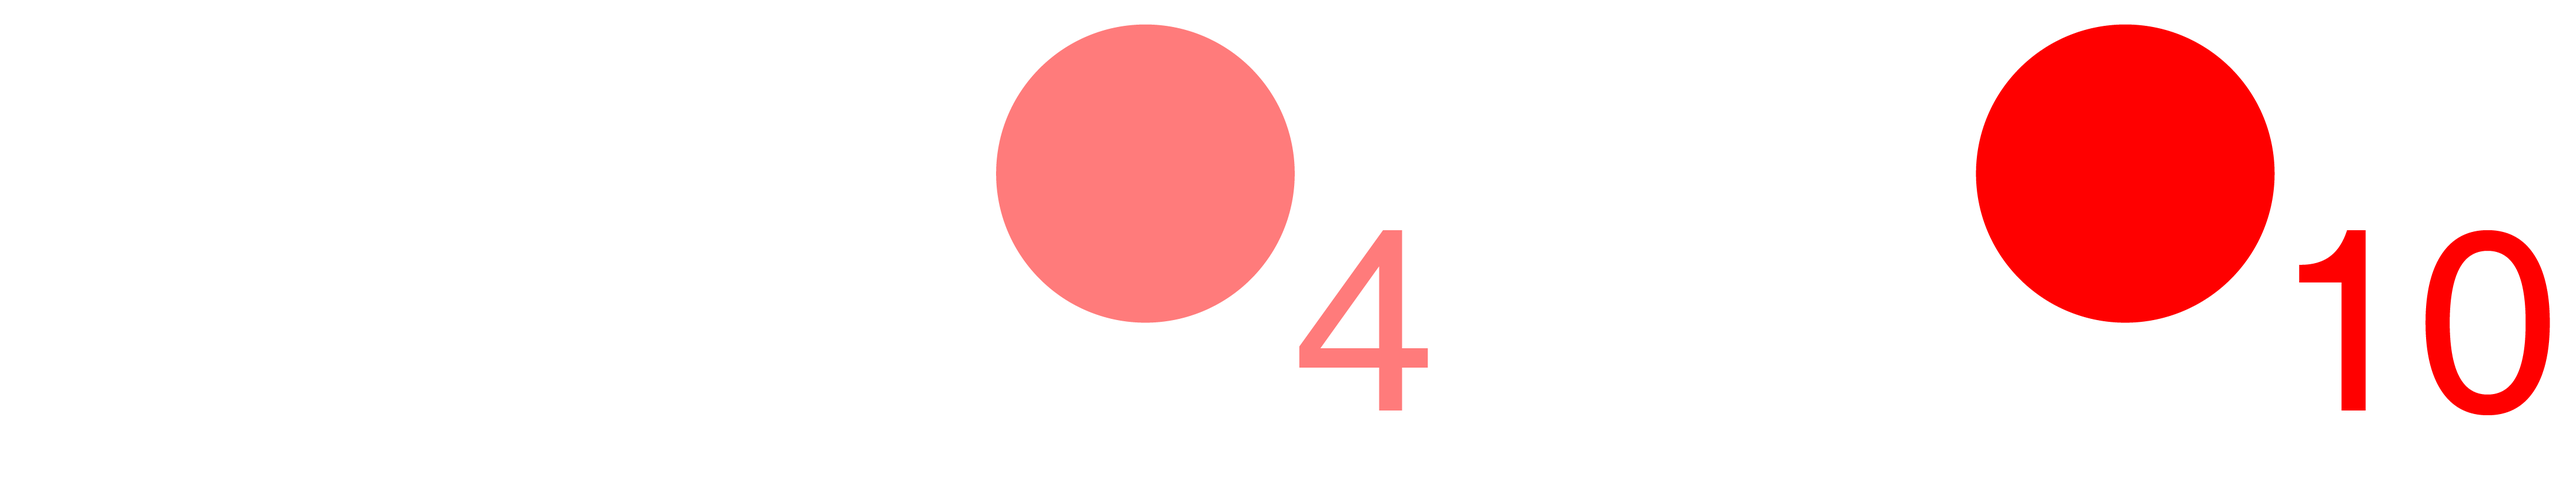
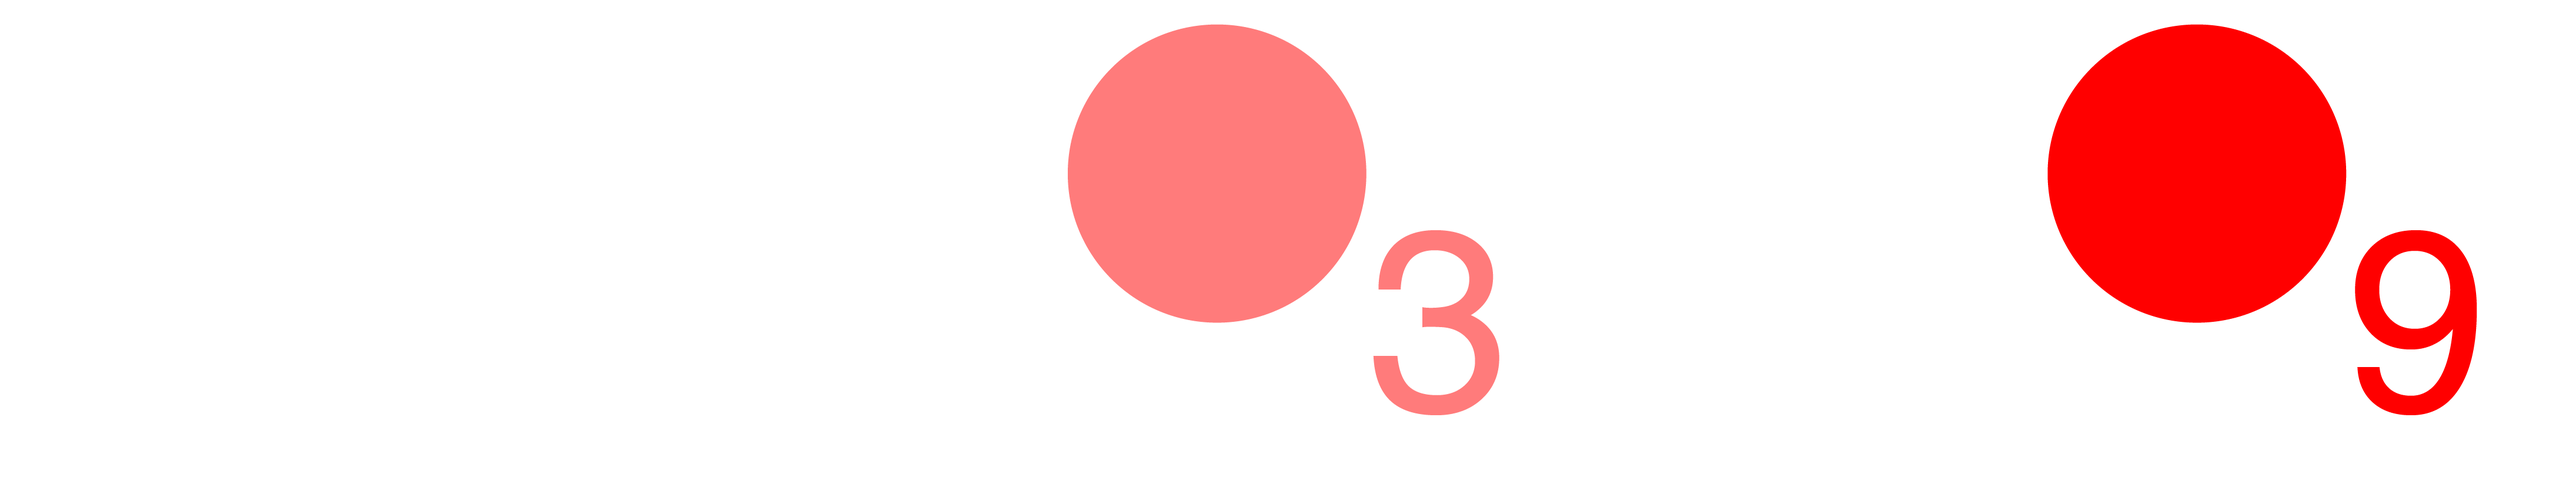
money updates

Changed region(s): [[0.745, 0.0307, 0.9934, 0.8278], [0.3725, 0.0307, 0.5898, 0.8278]]

diff --git a/src/components/MTP/MainGuideLines.jsx b/src/components/MTP/MainGuideLines.jsx
@@ -12,7 +12,8 @@ import task from "../../images/task.png";
 import click_success from "../../images/success_click.png";
 import click_fail from "../../images/fail_click.png";
 import reward_setting from "../../images/reward_setting.png";
-import { FONT_SIZE } from "../../utils";
+import { FONT_SIZE, getTimePercent, getTimerColor } from "../../utils";
+import { BALL_POINTS } from "./Balls";
 
 const MainGuideLines = () => {
   const monitorBound = useRecoilValue(mointorBoundState);
@@ -98,7 +99,7 @@ const MainGuideLines = () => {
       description: (
         <StepContent>
           <b style={{ color: "black" }}>
-            White gives 0 cents of bonus/penalty.
+            White gives {BALL_POINTS[0]} cents of bonus/penalty.
           </b>
         </StepContent>
       ),
@@ -109,7 +110,7 @@ const MainGuideLines = () => {
       description: (
         <StepContent>
           <b style={{ color: "#ff7b7b" }}>
-            Light red gives 4 cents of bonus/penalty.
+            Light red gives {BALL_POINTS[1]} cents of bonus/penalty.
           </b>
         </StepContent>
       ),
@@ -120,7 +121,7 @@ const MainGuideLines = () => {
       description: (
         <StepContent>
           <b style={{ color: "#ff0000 " }}>
-            Red gives 10 cents of bonus/penalty.
+            Red gives {BALL_POINTS[2]} cents of bonus/penalty.
           </b>
         </StepContent>
       ),
@@ -182,8 +183,7 @@ const MainGuideLines = () => {
       title: <StepTitle>Target Bonus Information</StepTitle>,
       description: (
         <StepContent>
-          Reminder: White gives 0 cents, Light red gives 4 cents, and Red gives
-          10 cents.
+          {`Reminder: White gives ${BALL_POINTS[0]} cents, Light red gives ${BALL_POINTS[1]} cents, and Red gives ${BALL_POINTS[2]} cents.`}
         </StepContent>
       ),
       target: () => refRewardSettings.current,
@@ -259,8 +259,19 @@ const MainGuideLines = () => {
             fontSize: FONT_SIZE,
           }}
         >
-          <div ref={ref1}>Total Bonus: 10 cents</div>
-          <div ref={refTime}>Time: 14:59</div>
+          <div ref={ref1}>Total Bonus: {BALL_POINTS[2]} cents</div>
+          <div ref={refTime}>
+            Time: 14:59
+            <div style={{ width: "100%", height: 20, background: "grey" }}>
+              <div
+                style={{
+                  width: `${getTimePercent(50, 100)}%`,
+                  height: 20,
+                  background: getTimerColor(50, 100),
+                }}
+              ></div>
+            </div>
+          </div>
           <div ref={refRewardSettings}>
             <img src={reward_setting} width={300} />
           </div>
@@ -371,7 +382,9 @@ const MainGuideLines = () => {
           ref={refSuccess2}
         >
           <div>
-            <MainTaskFont style={{ color: "red" }}>+10 Cents</MainTaskFont>
+            <MainTaskFont style={{ color: "red" }}>
+              +{BALL_POINTS[2]} Cents
+            </MainTaskFont>
           </div>
           <img alt="money" src={click_success} />
         </div>
@@ -390,7 +403,9 @@ const MainGuideLines = () => {
           ref={refFail}
         >
           <div>
-            <MainTaskFont style={{ color: "red" }}>-10 Cents</MainTaskFont>
+            <MainTaskFont style={{ color: "red" }}>
+              -{BALL_POINTS[2]} Cents
+            </MainTaskFont>
           </div>
           <img alt="money" src={click_fail} />
         </div>

diff --git a/src/utils.js b/src/utils.js
@@ -1,4 +1,4 @@
-import { BALL_POINTS, BALL_POINTS_MINIMUM } from "./components/MTP/Balls";
+import { BALL_POINTS } from "./components/MTP/Balls";
 import { SHOW_REWARD_TIME } from "./components/MTP/MTPCanvas";
 
 export const GREEN_BALL = "#00ff00";
@@ -363,7 +363,6 @@ export const drawClickResultText = (
   const successText = success ? "✅ Success!" : "❌ Failed...";
   const successColor = success ? "white" : "white";
   reward = Number(reward);
-  let minBallPoint = 0;
 
   if (Math.abs(reward) === BALL_POINTS[0]) {
     ctx.font = `${FONT_SIZE - 10}px san-serif bold`;
@@ -371,14 +370,6 @@ export const drawClickResultText = (
     ctx.font = `${FONT_SIZE}px san-serif bold`;
   } else {
     ctx.font = `${FONT_SIZE + 10}px san-serif bold`;
-  }
-
-  if (Math.abs(reward) < 1) {
-    minBallPoint = BALL_POINTS_MINIMUM[0];
-  } else if (Math.abs(reward) < 4) {
-    minBallPoint = BALL_POINTS_MINIMUM[1];
-  } else {
-    minBallPoint = BALL_POINTS_MINIMUM[2];
   }
 
   let textY = 0;

diff --git a/src/components/MTP/Balls.js b/src/components/MTP/Balls.js
@@ -6,8 +6,8 @@ import {
 } from "../../utils";
 import { INCH_24_HEIGHT } from "./MTPCanvas";
 
-export const BALL_POINTS = [0, 4, 10];
-export const BALL_POINTS_MINIMUM = [0, 1, 3];
+export const BALL_POINTS = [1, 3, 9];
+
 export class Balls {
   designs = [];
   randomDesignArray = [];

diff --git a/src/components/MTP/MTPCanvasPractice.jsx b/src/components/MTP/MTPCanvasPractice.jsx
@@ -59,7 +59,7 @@ import Cent from "../../images/cent.png";
 
 export const INCH_24_WIDTH = 20.92;
 export const INCH_24_HEIGHT = 11.77;
-const TOTAL_TIME = 0.3 * 60 * 1000;
+const TOTAL_TIME = 1.5 * 60 * 1000;
 
 const TOTAL_TRIALS = 300;
 
